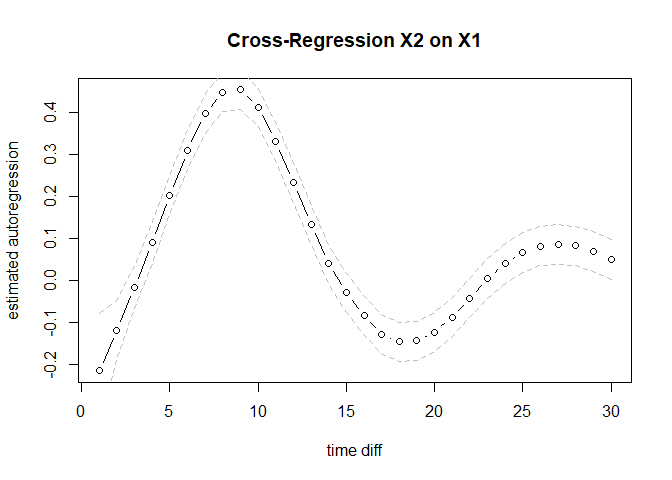
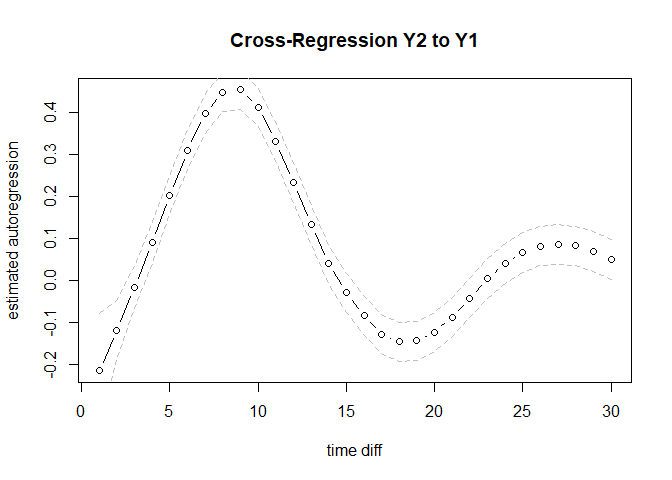
fix typos

Changed region(s): [[0.3125, 0.0625, 0.7188, 0.125]]

diff --git a/README.md b/README.md
@@ -7,19 +7,18 @@ The package takes a time-series dataset with measurement timing
 information as the input. Relying on a simple data-stacking approach and
 Generalized Additive Mixed Models (GAMMs), it allows researchers to:
 
--   1)  Estimate auto- and cross-correlations at different
-        time-intervals requested by the user.
-
--   2)  Visualize how lagged correlations vary and evolve as a function
-        of the time-interval between measurements
-
--   3)  Construct confidence intervals (CIs) to quantify uncertainty
-        around estimated lagged correlations.
+-   Estimate auto- and cross-correlations at different time-intervals
+    requested by the user.
+-   Visualize how lagged correlations vary and evolve as a function of
+    the time-interval between measurements
+-   Construct confidence intervals (CIs) to quantify uncertainty around
+    estimated lagged correlations.
 
 ## Background
 
-This repository contains an `R` package used by ZZZ (in preperation0) to
-qqq
+This repository contains an `R` package used by Ryan, Wu & Jacobson (in
+prep) Exploratory Continuous-Time Modeling (expct): Extracting Dynamic
+Features from Irregularly Spaced Time Series.
 
 ## Installation
 
@@ -34,17 +33,20 @@ library(expct)
 ## Usage
 
 The package takes as input a time-series dataset or long-format
-longitudinal data. The dataset should have the following columns - `id`
-a column denoting the id number of each participant in the dataset. Note
-that for single-subject time series, this should simply be a column with
-a single number repeated, e.g. `data$id = 1` - `time` a column
-containing timing information for each observation. The specific format
-required is “time elapsed since the **first** observation” in a unit of
-the users choice (hours, minutes, etc.). If the first observation of the
-dataset is taken at 3pm, and the second observation at 5pm, then the
-first two entries of the time column should read `time[1:2] = c(0,2)`. -
-The remaining columns should contain records of the observed variables
-in long format.
+longitudinal data. The dataset should have the following columns
+
+-   `id` a column denoting the id number of each participant in the
+    dataset. Note that for single-subject time series, this should
+    simply be a column with a single number repeated, e.g. `data$id = 1`
+-   `time` a column containing timing information for each observation.
+    The specific format required is “time elapsed since the **first**
+    observation” in a unit of the users choice (hours, minutes, etc.).
+    For example, if the first observation of the dataset is taken at
+    3pm, and the second observation at 5pm, then the first two entries
+    of the time column should read `time[1:2] = c(0,2)`, encoding time
+    in the unit of hours.
+-   The remaining columns should contains the variables that the user
+    wants to compute auto and/or cross-correlations for.
 
 ``` r
 load("data/simdata.rda")
@@ -59,39 +61,35 @@ head(simdata)
     ## [5,]  1 10.060890  1.34938143  1.4604215
     ## [6,]  1 14.870422  0.01682572  3.1393569
 
-The main function of this package is `expct`. Some important input
-options of this function are:
+The main function of this package is `expct`. The key input options are:
 
--   1)  `dataset`: the dataset in the format described above
+-   `dataset`: the dataset in the format described above
+-   `Tpred`: A vector which indicates the time-intervals at which the
+    user wants to estimate the auto- and cross- correlations.
+-   `output_type`: Determines the method used to construct credible or
+    confidence intervals. If output_type == “CI”, then default GAM
+    confidence intervals are supplied, which can be interpreted as
+    “point-wise” CIs for each of the values in `Tpred`. If output_type
+    ==“SCI”, then simultaneous CIs are supplied. These can be
+    interpreted as “function-wide” CIs, see
+    [here](https://fromthebottomoftheheap.net/2016/12/15/simultaneous-interval-revisited/)
+    for an introduction. If output_type ==“LLCI”, CIs are computed by
+    approximating analytic auto- and cross-correlation standard errors
+    from the time-series literature. The default value is “CI”. We
+    recommend using either “CI” or “SCI”, with the latter being more
+    conservative
 
--   2)  `Tpred`: A vector which indicates the time-intervals at which
-        the user wants to estimate the auto- and cross- correlations.
-
--   4)  `output_type`: Determines the method used to construct credible
-        or confidence intervals. If output_type == “CI”, then default
-        GAM confidence intervals are supplied, which can be interpreted
-        as “point-wise” CIs for each of the values in `Tpred`. If
-        output_type ==“SCI”, then simultaneous CIs are supplied. These
-        can be interpreted as “function-wide” CIs, see
-        [here](https://fromthebottomoftheheap.net/2016/12/15/simultaneous-interval-revisited/)
-        for an introduction. If output_type ==“LLCI”, CIs are computed
-        by approximating analytic auto- and cross-correlation standard
-        errors from the time-series literature. The default value is
-        “CI”. We recommend using either “CI” or “SCI”, with the latter
-        being more conservative
+Other input options allow users to request bootstrap estimation, request
+pre-estimation detrending, and control estimation of the lagged
+correlations by passing arguments to `mcgv::gam()`.
 
 The output of this functions is a list which contains below elements:
 
--   1)  est: The point estimation of lagged correlations between
-        covariates and outcomes.
-
--   2)  highCI: The uppper CI of the point estimation.
-
--   3)  lowCI: The lower CI of the point estimation.
-
--   4)  laglongreducedummy: The stacked dataset from the raw data.
-
--   5)  attributes: All attributes used to estimate GAMMs.
+-   `est`: Matrix containing point estimates of lagged correlations
+-   `highCI`: The upper 95 percent CI of the point estimation.
+-   `lowCI`: The lower 95 percent CI of the point estimation.
+-   The \`\`stacked’’ dataset used in estimation of lagged effects
+-   `attributes`: All attributes used to estimate GAMMs.
 
 ### Example
 
@@ -101,47 +99,34 @@ Perform analyses with `expct`:
 # library(mgcv)
 Tpred = seq(1,30,1)
 
-est <- expct(
+out <- expct(
   dataset = simdata,
-  Time = "time",
-  outcome = c("Y1","Y2"),
-  ID = "id",
-  estimate = "marginal",
+  Time = "time", # name of the column in dataset with timing informaiton
+  outcome = c("Y1","Y2"), # optional: which variables to compute lagged corrleations for
+  ID = "id", # name of id column
   Tpred = Tpred,
-  plot_show = F,
-  quantiles = c(.025, 0.975),
-  method = "bam",
+  plot_show = F, # plot output
+  method = "bam" # option to be passed to mgcv::gam()
 )
 ```
-
-    ## Perform the 1/4 time marginal expct estimation.
-    ## Perform the 2/4 time marginal expct estimation.
-    ## Perform the 3/4 time marginal expct estimation.
-    ## Perform the 4/4 time marginal expct estimation.
 
 Plot output, for instance using
 
 ``` r
-plot(est$est[[1]], type = "b", ylab = "estimated autoregression", xlab = "time diff", main = "Autoregression X1")
-lines(est$highCI[[1]], lty = 2, col = "gray")
-lines(est$lowCI[[1]], lty = 2, col = "gray")
+plot(out$est$Y1toY1, type = "b", ylab = "estimated autoregression", xlab = "time diff", main = "Autoregression Y1")
+lines(out$highCI$Y1toY1, lty = 2, col = "gray")
+lines(out$lowCI$Y1toY1, lty = 2, col = "gray")
 ```
 
 ![](README_files/figure-gfm/unnamed-chunk-5-1.png)<!-- -->
 
 ``` r
-plot(est$est[[2]], type = "b", ylab = "estimated autoregression", xlab = "time diff", main = "Cross-Regression X2 on X1")
-lines(est$highCI[[2]], lty = 2, col = "gray")
-lines(est$lowCI[[2]], lty = 2, col = "gray")
+plot(out$est$Y2toY1, type = "b", ylab = "estimated autoregression", xlab = "time diff", main = "Cross-Regression Y2 to Y1")
+lines(out$highCI$Y2toY1, lty = 2, col = "gray")
+lines(out$lowCI$Y2toY1, lty = 2, col = "gray")
 ```
 
 ![](README_files/figure-gfm/unnamed-chunk-5-2.png)<!-- -->
-
-``` r
-# plot(mcr$est[[2]], type = "b", ylab = "estimated autoregression", xlab = "time diff", main = "Cross-Regresion")
-# plot(mcr$est[[3]], type = "b", ylab = "estimated autoregression", xlab = "time diff", main = "Autoregression X1")
-# plot(mcr$est[[4]], type = "b", ylab = "estimated autoregression", xlab = "time diff", main = "Autoregression X1")
-```
 
 ## Contact Details
 
